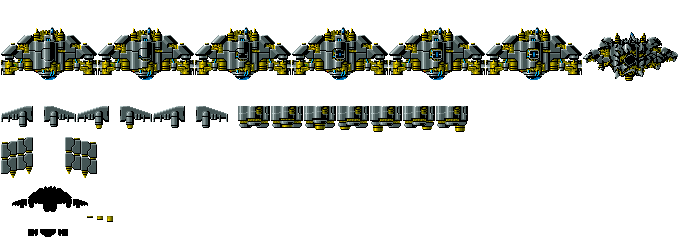
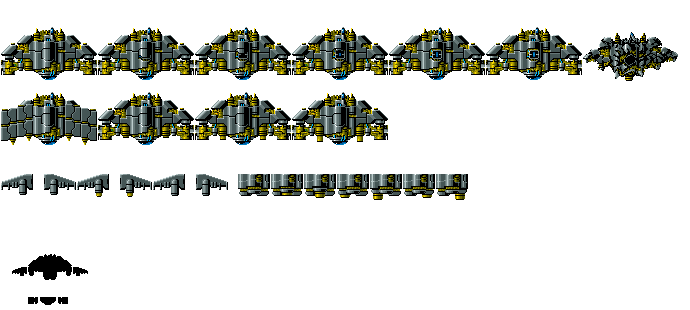
Boss path done

Changed region(s): [[0.0, 0.0837, 1.0, 0.5299], [0.0, 0.5299, 0.7, 0.6972], [0.0, 0.7251, 0.1826, 1.0]]

diff --git a/Raiden Project/ModuleEnemies.cpp b/Raiden Project/ModuleEnemies.cpp
@@ -22,6 +22,7 @@
 #include "Enemy_Light_Shooter_Kamikaze.h"
 #include "Enemy_Megatank.h"
 #include "Enemy_Grey_Tank.h"
+#include "Enemy_Boss_Main.h"
 #define SPAWN_MARGIN 100
 
 ModuleEnemies::ModuleEnemies()
@@ -48,6 +49,7 @@ bool ModuleEnemies::Init()
 	sprites8 = App->textures->Load("assets/Ship.png");
 	sprites9 = App->textures->Load("assets/Light Shooter Kamikaze.png");
 	sprites10 = App->textures->Load("assets/Megatank.png");
+	sprites11 = App->textures->Load("assets/Boss 2.png");
 	return true;
 }
 
@@ -81,45 +83,27 @@ update_status ModuleEnemies::Update()
 		if (enemies[i] != nullptr) 
 		{ 
 		   if (enemies[i]->spritesheet == 0) //Light Shooter
-		   {
 		       enemies[i]->Draw(sprites);
-		   }
-		   if (enemies[i]->spritesheet == 1) //Bonus Ship
-		   {
+		   else if (enemies[i]->spritesheet == 1) //Bonus Ship
 			   enemies[i]->Draw(sprites2);
-		   }
-		   if (enemies[i]->spritesheet == 2) //Tank & Ship_Tank
-		   {
+		   else if (enemies[i]->spritesheet == 2) //Tank & Ship_Tank
 			   enemies[i]->Draw(sprites3);
-		   }
-		   if (enemies[i]->spritesheet == 3) //Medium Shooter
-		   {
+		   else if (enemies[i]->spritesheet == 3) //Medium Shooter
 			   enemies[i]->Draw(sprites4);
-		   }
-		   if (enemies[i]->spritesheet == 4) //Box_Medal & Box_PowerUp
-		   {
+		   else if (enemies[i]->spritesheet == 4) //Box_Medal & Box_PowerUp
 			   enemies[i]->Draw(sprites5);
-		   }
-		   if (enemies[i]->spritesheet == 5) //Kamikaze
-		   {
+		   else if (enemies[i]->spritesheet == 5) //Kamikaze
 			   enemies[i]->Draw(sprites6);
-		   }
-		   if (enemies[i]->spritesheet == 6) //Long Megatank
-		   {
+		   else if (enemies[i]->spritesheet == 6) //Long Megatank
 			   enemies[i]->Draw(sprites7);
-		   }
-		   if (enemies[i]->spritesheet == 7) //Ship
-		   {
+		   else if (enemies[i]->spritesheet == 7) //Ship
 			   enemies[i]->Draw(sprites8);
-		   }
-		   if (enemies[i]->spritesheet == 8) //Light Shooter Kamikaze
-		   {
+		   else if (enemies[i]->spritesheet == 8) //Light Shooter Kamikaze
 			   enemies[i]->Draw(sprites9);
-		   }
-		   if (enemies[i]->spritesheet == 9) //Megatank
-		   {
+		   else if (enemies[i]->spritesheet == 9) //Megatank
 			   enemies[i]->Draw(sprites10);
-		   }
+		   else if (enemies[i]->spritesheet == 10) //Boss
+			   enemies[i]->Draw(sprites11);
         }
 	return UPDATE_CONTINUE;
 }
@@ -195,6 +179,9 @@ void ModuleEnemies::SpawnEnemy(const EnemyInfo& info)
 		{
 		case ENEMY_TYPES::LIGHT_SHOOTER:
 			enemies[i] = new Enemy_Light_Shooter(App->map_1->xmap + info.x, info.y, info._path);
+			break;
+		case ENEMY_TYPES::BOSS_MAIN:
+			enemies[i] = new Enemy_Boss_Main(App->map_1->xmap + info.x, info.y, info._path);
 			break;
 		case ENEMY_TYPES::KAMIKAZE:
 			enemies[i] = new Enemy_Kamikaze(App->map_1->xmap + info.x, info.y, info._path);

diff --git a/Raiden Project/Enemy_Boss_Main.cpp b/Raiden Project/Enemy_Boss_Main.cpp
@@ -1,0 +1,103 @@
+#include "Enemy_Boss_Main.h"
+#include "Application.h"
+#include "ModulePlayer.h"
+#include "ModulePlayer2.h"
+#include "ModuleCollision.h"
+#include "ModuleParticles.h"
+#include <Math.h>
+#include "ModuleEnemies.h"
+
+
+
+Enemy_Boss_Main::Enemy_Boss_Main(int x, int y, int path) : Enemy(x, y)
+{
+	hp = 420;
+	points = 29000;
+	spritesheet = 10;
+	animations = 1;
+	megatank = true;
+
+	//Animations
+	//Idle with kamikazes
+	idlewithkamikazes.PushBack({ 1, 92, 96, 53 });
+	idlewithkamikazes.loop = false;
+	//Idle
+	idle.PushBack({ 1, 27, 96, 53 });
+	idle.loop = false;
+	//Opening
+	opening.PushBack({ 1, 27, 96, 53 });
+	opening.PushBack({ 98, 27, 96, 53 });
+	opening.PushBack({ 195, 27, 96, 53 });
+	opening.PushBack({ 292, 27, 96, 53 });
+	opening.PushBack({ 389, 27, 96, 53 });
+	opening.PushBack({ 486, 27, 96, 53 });
+	//Closing
+	closing.PushBack({ 486, 27, 96, 53 });
+	closing.PushBack({ 389, 27, 96, 53 });
+	closing.PushBack({ 292, 27, 96, 53 });
+	closing.PushBack({ 195, 27, 96, 53 });
+	closing.PushBack({ 98, 27, 96, 53 });
+	closing.PushBack({ 1, 27, 96, 53 });
+	//Shooting
+	shooting.PushBack({ 98, 92, 96, 53 });
+	shooting.PushBack({ 195, 92, 96, 53 });
+	shooting.PushBack({ 292, 92, 96, 53 });
+	//Destroyed
+	destroyed.PushBack({ 583, 27, 96, 53 });
+	destroyed.loop = false;
+
+	//Path
+	//Fly away
+	flyaway.PushBack({ 0.0f, 3.0f }, 10000);
+	//Entering
+	entering.PushBack({ 0.0f, 2.0f }, 100);
+	//Movement
+	movement.PushBack({ 2.0f, 0.0f }, 80);
+	movement.PushBack({ -2.0f, 0.0f }, 160);
+	movement.PushBack({ 2.0f, 0.0f }, 80);
+	movement.PushBack({ 0.0f, 2.0f }, 30);
+	movement.PushBack({ 0.0f, -2.0f }, 80);
+	movement.PushBack({ -2.0f, 0.0f }, 80);
+	movement.PushBack({ 2.0f, 0.0f }, 160);
+	movement.PushBack({ -2.0f, 0.0f }, 80);
+	movement.PushBack({ 0.0f, 2.0f }, 60);
+	movement.loop = true;
+
+	w = 96 * 3;
+	h = 53 * 3;
+	collider = App->collision->AddCollider({ 0, 0, w, h }, COLLIDER_TYPE::COLLIDER_ENEMY, (Module*)App->enemies);
+	original_pos.x = (x + w/2);
+	original_pos.y = 10;
+	time = SDL_GetTicks();
+}
+
+
+void Enemy_Boss_Main::MoveShoot()
+{
+	if ((SDL_GetTicks() - time) < 2000)
+	{
+		animation = &idlewithkamikazes;
+		position = original_pos + entering.GetCurrentPosition();
+		position.x += left_right_mod;
+	}
+	else if ((SDL_GetTicks() - time) < 100000)
+	{
+		if (!posreset)
+		{
+			original_pos = position;
+			posreset = true;
+		}
+		position = original_pos + movement.GetCurrentPosition();
+		position.x += left_right_mod;
+	}
+	else
+	{
+		if (!posreset1)
+		{
+			original_pos = position;
+			posreset1 = true;
+		}
+		position = original_pos + flyaway.GetCurrentPosition();
+		position.x += left_right_mod;
+	}
+}

diff --git a/Raiden Project/Enemy_Boss_Main.h b/Raiden Project/Enemy_Boss_Main.h
@@ -1,0 +1,26 @@
+#include "Enemy.h"
+
+class Enemy_Boss_Main : public Enemy
+{
+private:
+	Animation idlewithkamikazes;
+	Animation idle;
+	Animation opening;
+	Animation closing;
+	Animation shooting;
+	Animation destroyed;
+
+	fPoint original_pos;
+	Uint32 time;
+	Path movement;
+	Path flyaway;
+	Path entering;
+
+	bool posreset = false;
+	bool posreset1 = false;
+
+public:
+	Enemy_Boss_Main(int x, int y, int path);
+	void MoveShoot();
+};
+

diff --git a/Raiden Project/ModuleMap1.cpp b/Raiden Project/ModuleMap1.cpp
@@ -60,6 +60,7 @@ update_status ModuleMap1::Update()
 		//App->enemies->AddEnemy(0, ENEMY_TYPES::LIGHT_KAMIKAZE, 0, -200);
 		//App->enemies->AddEnemy(0, ENEMY_TYPES::LIGHT_KAMIKAZE, 352 * 3, -200);
 		//App->enemies->AddEnemy(0, ENEMY_TYPES::LIGHT_KAMIKAZE,0, -300 );
+		App->enemies->AddEnemy(0, ENEMY_TYPES::BOSS_MAIN, 230, -200);
 
 		App->enemies->AddEnemy(0, ENEMY_TYPES::GREY_TANK, 500, -300);
 

diff --git a/Raiden Project/Enemy_Bonus_Ship.cpp b/Raiden Project/Enemy_Bonus_Ship.cpp
@@ -47,7 +47,7 @@ Enemy_Bonus_Ship::Enemy_Bonus_Ship(int x, int y, int path) : Enemy (x, y)
 	movement.PushBack({ 0.4f, 0.0f }, 700);
 	movement.PushBack({ -0.4f, 0.0f }, 700);
 	movement.PushBack({ 0.4f, 0.0f }, 700);
-	movement.PushBack({ 0.0f, 3.0f }, 600);
+	movement.PushBack({ 0.0f, 1.5f }, 600);
 	
 	hitsides.PushBack({ 262, 221, 59, 54 });
 	hitsides.PushBack({ 262, 221, 59, 54 });

diff --git a/Raiden Project/Enemy.h b/Raiden Project/Enemy.h
@@ -60,6 +60,8 @@ public:
 	bool longmegatank = false; //Boolena to detect if the enemy is a megatank
 	bool shiptank = false; //Boolena to detect if the enemy is a ship tank
 	bool megatank = false;
+	bool bossmain = false;
+	bool bosspart = false;
 	bool turretexploded = false; // Bool to know if a tank's turret has already exploded or not
 	bool greytank = false;
 

diff --git a/Raiden Project/ModuleEnemies.h b/Raiden Project/ModuleEnemies.h
@@ -12,6 +12,7 @@ enum ENEMY_TYPES
 	NO_TYPE,
     LIGHT_SHOOTER,
 	BONUS_SHIP,
+	BOSS_MAIN,
 	TANK,
 	GREY_TANK,
 	MEDIUM_SHOOTER,
@@ -73,6 +74,7 @@ private:
 	SDL_Texture* sprites8;
 	SDL_Texture* sprites9;
 	SDL_Texture* sprites10;
+	SDL_Texture* sprites11;
 
 	
 };
